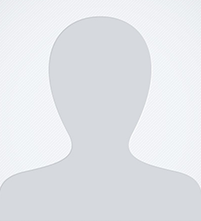
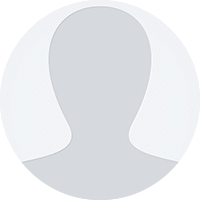
Sets default user picture for all view that require it

diff --git a/MAMICare/MAMICare/HelperVC.m b/MAMICare/MAMICare/HelperVC.m
@@ -1,0 +1,46 @@
+//
+//  HelperVC.m
+//  MAMICare
+//
+//  Created by Luis Alberto Lamadrid on 11/27/15.
+//  Copyright © 2015 Paulina´s. All rights reserved.
+//
+
+#import "HelperVC.h"
+
+@interface HelperVC ()
+
+@end
+
+@implementation HelperVC
+
+- (void)viewDidLoad {
+    [super viewDidLoad];
+    // Do any additional setup after loading the view.
+}
+
+- (void)didReceiveMemoryWarning {
+    [super didReceiveMemoryWarning];
+    // Dispose of any resources that can be recreated.
+}
+
+#pragma mark - User Helper Functions
+
++ (UIImage *)getPhotoForUser:(Patient *)patient {
+    NSString *photoURL = [patient getPhotoURL];
+    NSString *defaultURL = @"UsuarioDefault";
+    UIImage *patientPhoto = [UIImage imageNamed:photoURL];
+    return (patientPhoto) ? patientPhoto : [UIImage imageNamed:defaultURL];
+}
+
+/*
+#pragma mark - Navigation
+
+// In a storyboard-based application, you will often want to do a little preparation before navigation
+- (void)prepareForSegue:(UIStoryboardSegue *)segue sender:(id)sender {
+    // Get the new view controller using [segue destinationViewController].
+    // Pass the selected object to the new view controller.
+}
+*/
+
+@end

diff --git a/MAMICare/MAMICare/MomAssesmentViewController.m b/MAMICare/MAMICare/MomAssesmentViewController.m
@@ -7,6 +7,7 @@
 //
 
 #import "MomAssesmentViewController.h"
+#import "HelperVC.h"
 
 @interface MomAssesmentViewController ()
 
@@ -32,6 +33,7 @@
     }
     
     [self setStartTime];
+    [self configureUserInfoInView];
 }
 
 - (void)didReceiveMemoryWarning {
@@ -40,6 +42,12 @@
 }
 
 #pragma mark - View Helper Functions
+
+- (void)configureUserInfoInView {
+    self.imgPatientPhoto.image = [HelperVC getPhotoForUser:self.patient];
+    self.lblFirstName.text = self.patient.name;
+    self.lblLastName.text = self.patient.getFullName;
+}
 
 - (void)retrieveDataFromFormToAssessment {
     self.assessment.weight = [self.tffundalHeight.text doubleValue];
@@ -87,6 +95,7 @@
 - (void)prepareForSegue:(UIStoryboardSegue *)segue sender:(id)sender {
     // sets the assesment for the next part of the form
     [[segue destinationViewController] setAssessment:self.assessment];
+    [[segue destinationViewController] setPatient:self.patient];
 }
 
 // Remove Keyboard

diff --git a/MAMICare/ViewControllerDetalle.m b/MAMICare/ViewControllerDetalle.m
@@ -7,6 +7,7 @@
 //
 
 #import "ViewControllerDetalle.h"
+#import "HelperVC.h"
 
 @interface ViewControllerDetalle ()
 
@@ -56,7 +57,7 @@
 
 - (void)configureView {
     if (self.patient){
-        self.imgPatientImage.image = [UIImage imageNamed:[self.patient getPhotoURL]];
+        self.imgPatientImage.image = [HelperVC getPhotoForUser:self.patient];
         self.lblFirstName.text = self.patient.name;
         self.lblLastNames.text = [self.patient getFullName];
         self.lblAge.text = [NSString stringWithFormat:@"%ld",
@@ -78,12 +79,11 @@
     // Dispose of any resources that can be recreated.
 }
 
-
 #pragma mark - Navigation
 
 // In a storyboard-based application, you will often want to do a little preparation before navigation
 - (void)prepareForSegue:(UIStoryboardSegue *)segue sender:(id)sender {
-    
+    [[segue destinationViewController] setPatient:self.patient];
 }
 
 - (void)btnCancelar:(UIBarButtonItem *)sender {

diff --git a/MAMICare/MAMICare/TerminoConsultaViewController.h b/MAMICare/MAMICare/TerminoConsultaViewController.h
@@ -8,23 +8,23 @@
 
 #import <UIKit/UIKit.h>
 #import "Assessment.h"
+#import "HelperVC.h" // includes "Patient.h"
 
 @interface TerminoConsultaViewController : UIViewController
 
+// outlets
 @property (strong, nonatomic) IBOutlet UILabel *labelFirstName;
-
 @property (strong, nonatomic) IBOutlet UILabel *labelLastName;
-
 @property (strong, nonatomic) IBOutlet UIImageView *picturePatient;
 
+// actions
 - (IBAction)btnMenu:(UIBarButtonItem *)sender;
 
+// properties
 @property (nonatomic, strong) NSString *strFirstName;
-
 @property (nonatomic, strong) NSString *strLastName;
-
 @property (nonatomic, strong) UIImage *imagePatient;
-
 @property (nonatomic, strong) Assessment *assessment;
+@property (nonatomic, strong) Patient *patient;
 
 @end

diff --git a/MAMICare/MAMICare/PatientsTableViewController.m b/MAMICare/MAMICare/PatientsTableViewController.m
@@ -12,6 +12,7 @@
 #import "ViewControllerDetalle.h"
 #import "ViewControllerNuevoPaciente.h"
 #import "ResultsTableController.h"
+#import "HelperVC.h"
 #import "DBManager.h"
 
 @interface PatientsTableViewController () <UISearchBarDelegate, UISearchControllerDelegate, UISearchResultsUpdating>
@@ -145,7 +146,7 @@
 # warning Implement configureCell method
     cell.lblPatientName.text = [NSString stringWithFormat:@"%@ %@",
                                 patient.name, [patient getFullName]];
-    cell.imgPatientImage.image = [UIImage imageNamed:[patient getPhotoURL]];
+    cell.imgPatientImage.image = [HelperVC getPhotoForUser:patient];
 }
 
 //

diff --git a/MAMICare/MAMICare/TerminoConsultaViewController.m b/MAMICare/MAMICare/TerminoConsultaViewController.m
@@ -16,7 +16,7 @@
 
 - (void)viewDidLoad {
     [super viewDidLoad];
-    // Do any additional setup after loading the view.
+    [self configureUserInfoInView];
 }
 
 - (void)didReceiveMemoryWarning {
@@ -33,6 +33,14 @@
     // Pass the selected object to the new view controller.
 }
 */
+
+#pragma mark - View Helper Functions
+
+- (void)configureUserInfoInView {
+    self.labelFirstName.text = self.patient.name;
+    self.labelFirstName.text = self.patient.getFullName;
+    self.picturePatient.image = [HelperVC getPhotoForUser:self.patient];
+}
 
 - (IBAction)btnMenu:(UIBarButtonItem *)sender {
     [self popView];

diff --git a/MAMICare/MAMICare/MomAssesmentViewController.h b/MAMICare/MAMICare/MomAssesmentViewController.h
@@ -16,6 +16,10 @@
 @property(nonatomic, strong) Assessment *assessment;
 
 // outlets
+@property(nonatomic, strong) IBOutlet UIImageView *imgPatientPhoto;
+@property(nonatomic, strong) IBOutlet UILabel *lblFirstName;
+@property(nonatomic, strong) IBOutlet UILabel *lblLastName;
+
 @property(nonatomic, strong) UITextField *tfWeight;
 @property(nonatomic, strong) UITextField *tfPulse;
 @property(nonatomic, strong) UITextField *tfSystolicHeartRate;

diff --git a/MAMICare/MAMICare/HelperVC.h b/MAMICare/MAMICare/HelperVC.h
@@ -1,0 +1,16 @@
+//
+//  HelperVC.h
+//  MAMICare
+//
+//  Created by Luis Alberto Lamadrid on 11/27/15.
+//  Copyright © 2015 Paulina´s. All rights reserved.
+//
+
+#import <UIKit/UIKit.h>
+#import "Patient.h"
+
+@interface HelperVC : UIViewController
+
++ (UIImage *)getPhotoForUser:(Patient *)patient;
+
+@end
